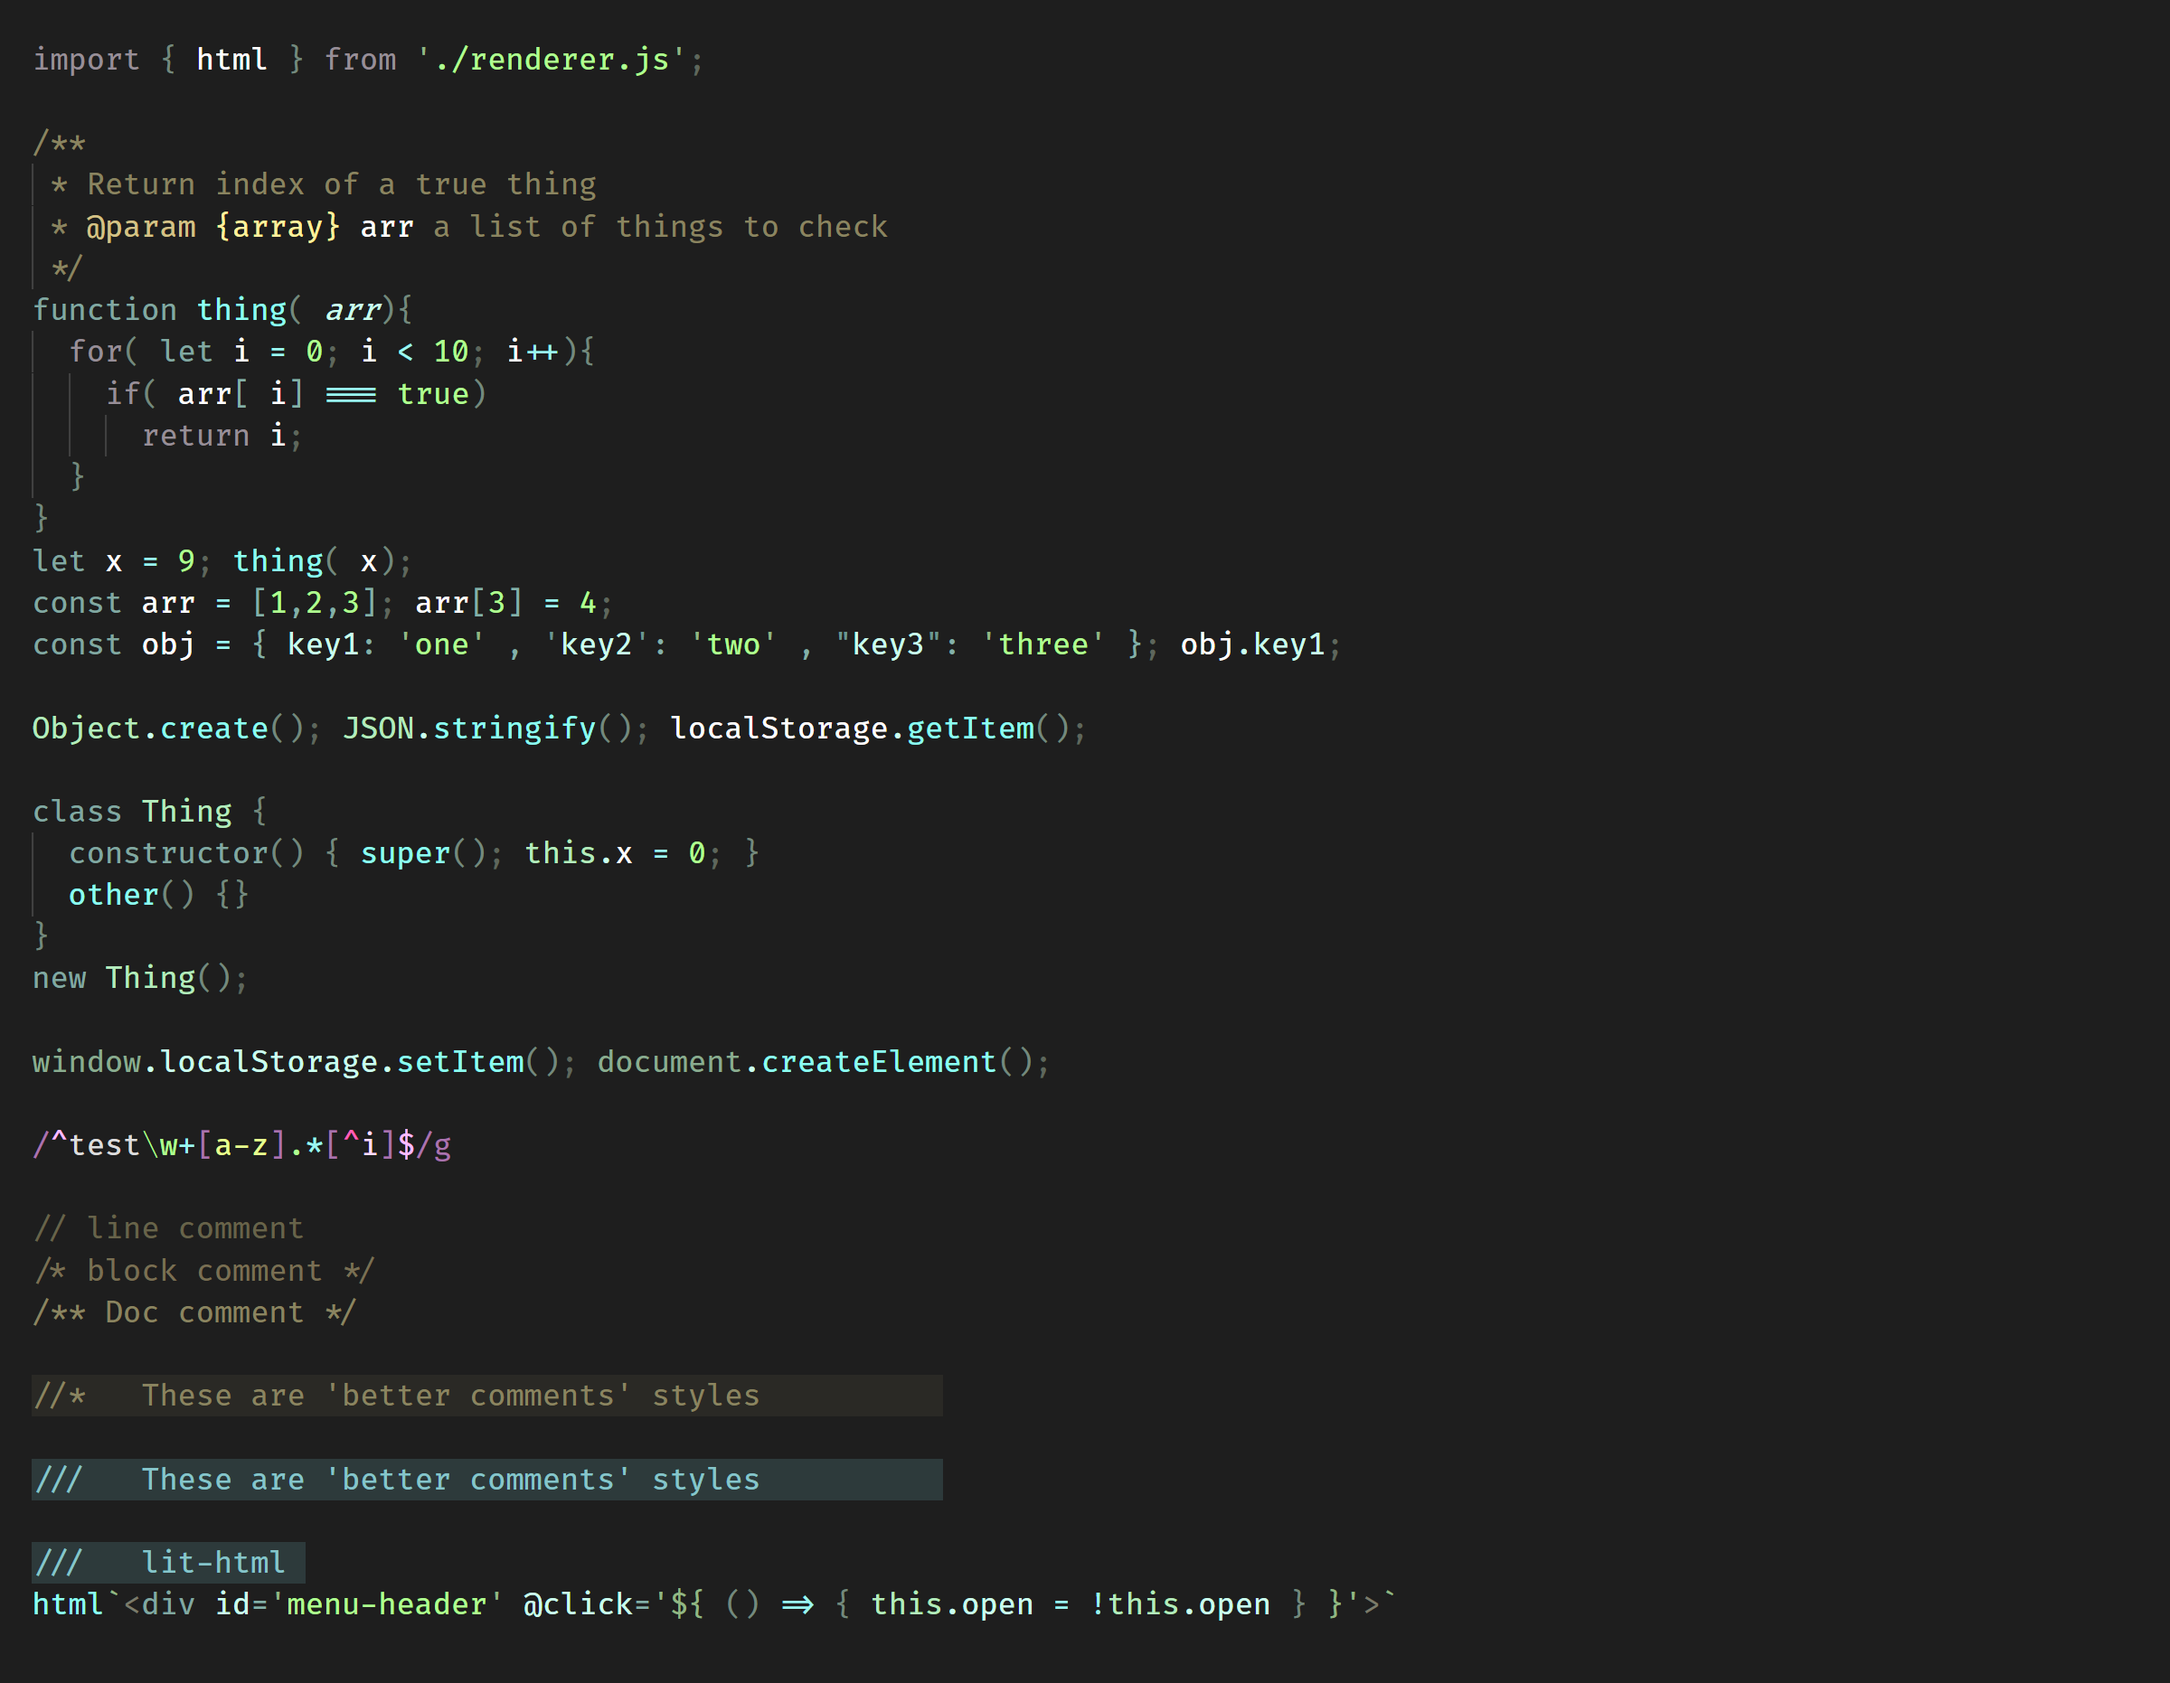
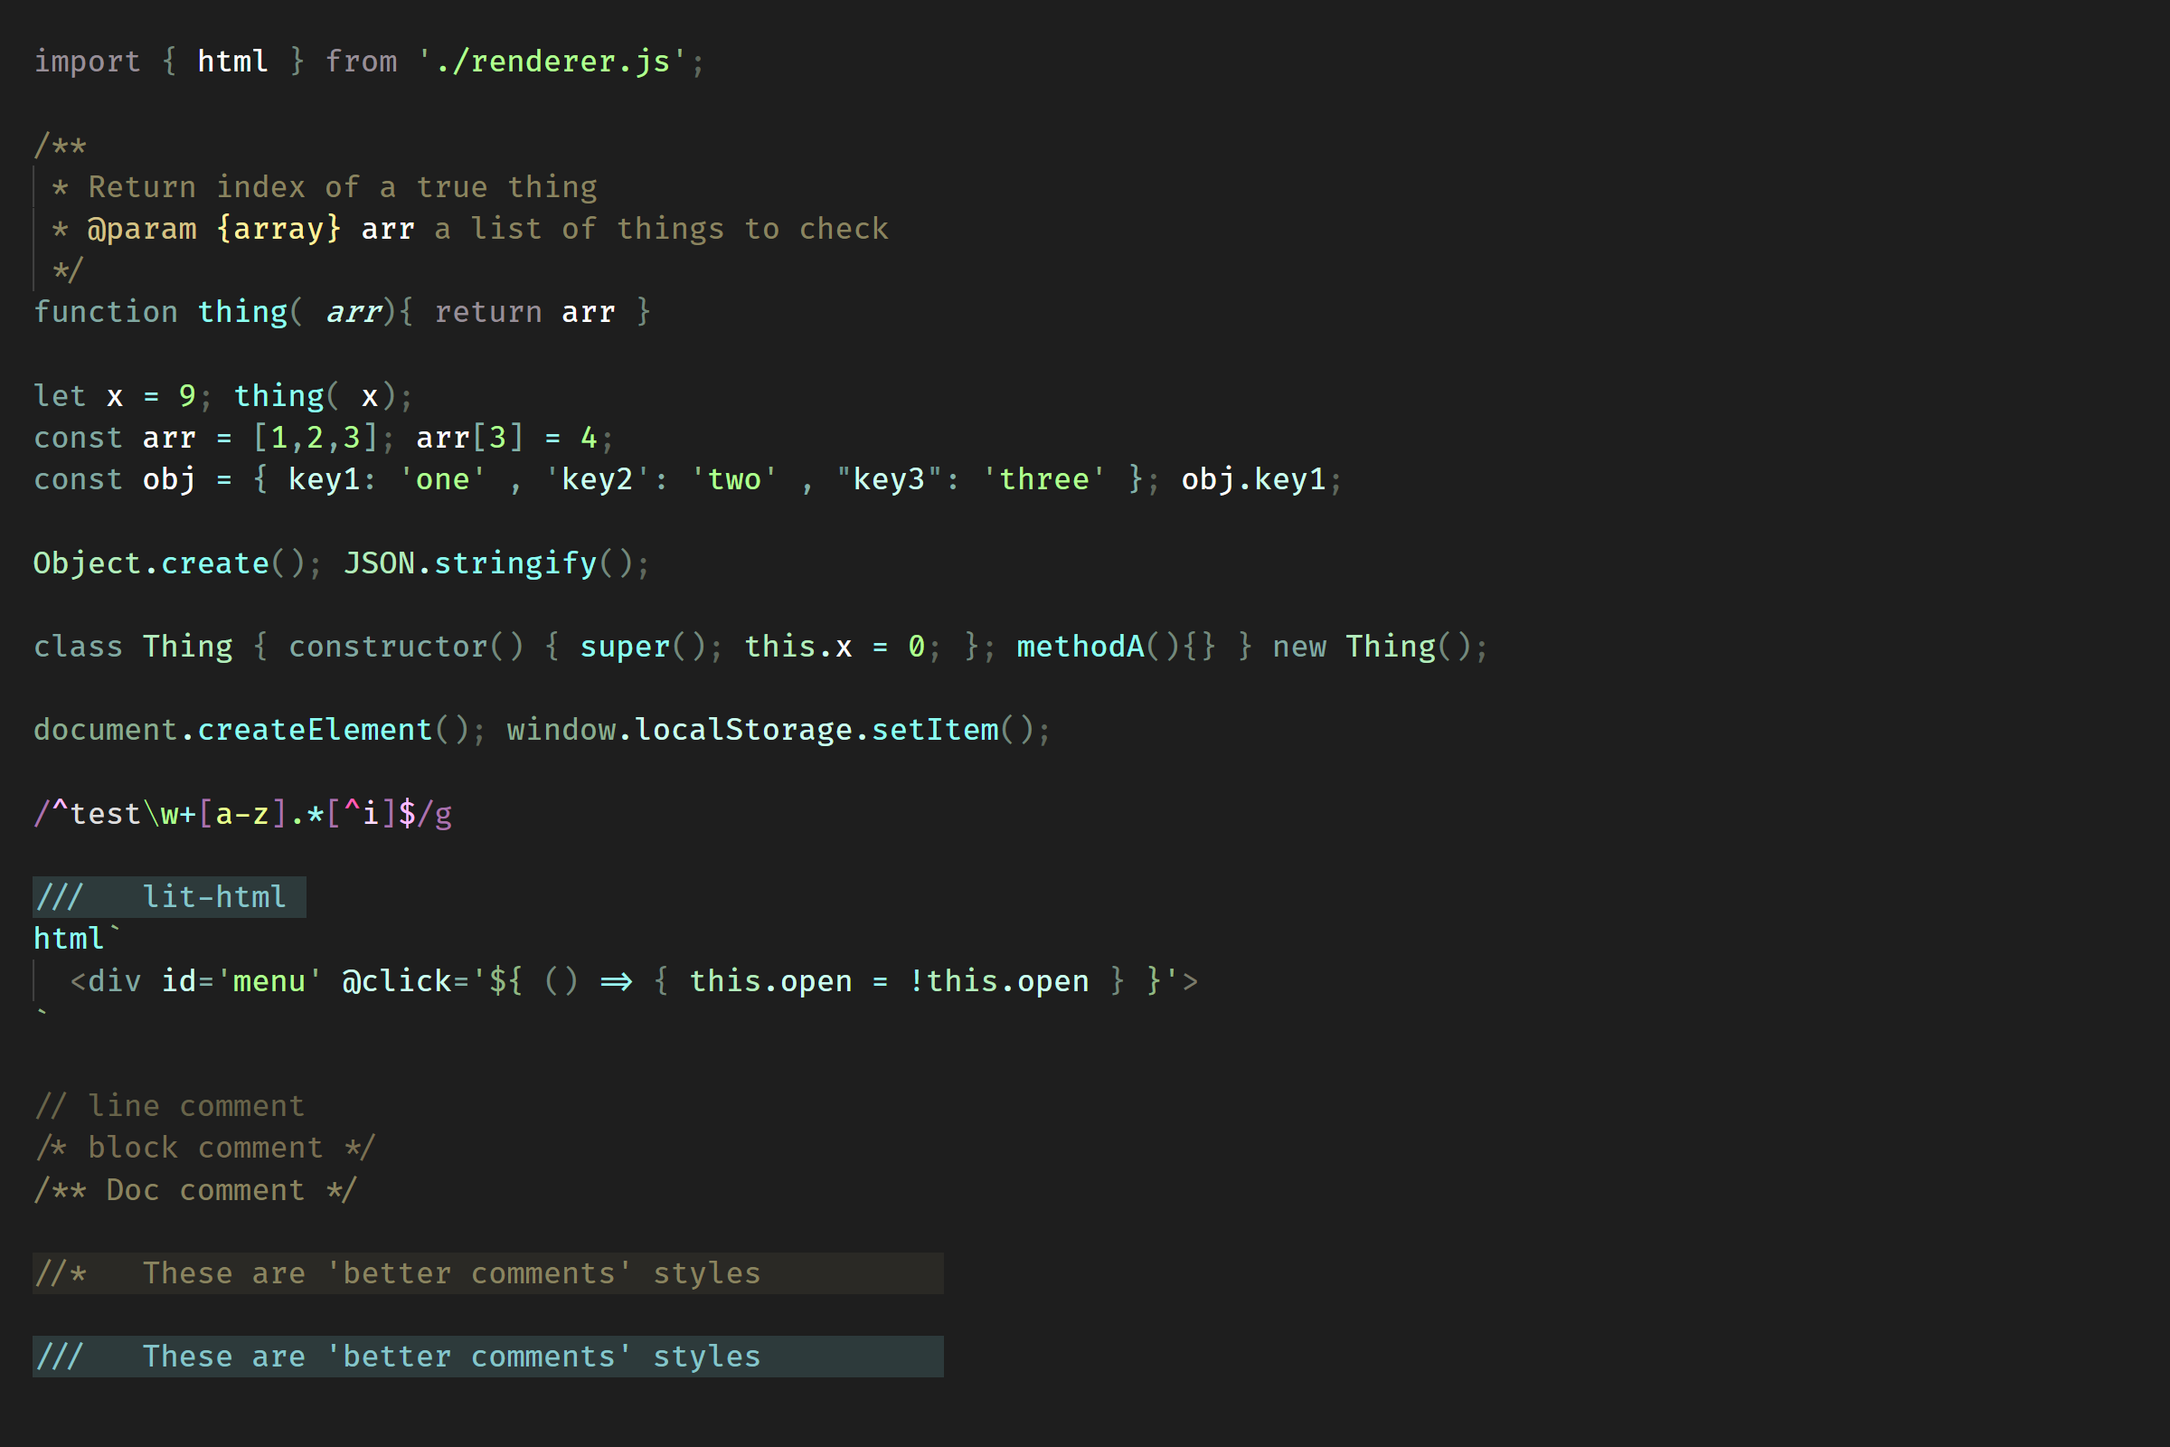
CSS classes id violet, @media yellow

diff --git a/syntax-demos/js.js b/syntax-demos/js.js
@@ -5,27 +5,24 @@ import { html } from './renderer.js';
  * Return index of a true thing
  * @param {array} arr a list of things to check
  */
-function thing( arr){
-	for( let i = 0; i < 10; i++){
-		if( arr[ i] === true) 
-			return i;
-	}
-}
+function thing( arr){ return arr }
+
 let x = 9; thing( x);
 const arr = [1,2,3]; arr[3] = 4;
 const obj = { key1: 'one' , 'key2': 'two' , "key3": 'three' }; obj.key1;
 
-Object.create(); JSON.stringify(); localStorage.getItem();
+Object.create(); JSON.stringify();
 
-class Thing { 
-	constructor() { super(); this.x = 0; } 
-	other() {} 
-}
-new Thing();
+class Thing { constructor() { super(); this.x = 0; }; methodA(){} } new Thing();
 
-window.localStorage.setItem(); document.createElement();
+document.createElement(); window.localStorage.setItem(); 
 
 /^test\w+[a-z].*[^i]$/g
+
+/// 	lit-html 
+html`
+	<div id='menu' @click='${ () => { this.open = !this.open } }'>
+`
 
 // line comment 
 /* block comment */
@@ -35,26 +32,6 @@ window.localStorage.setItem(); document.createElement();
 
 /// 	These are 'better comments' styles 					
 
-/// 	lit-html 
-html`<div id='menu-header' @click='${ () => { this.open = !this.open } }'>`
-
-
-
-
-import { html } from './renderer.js';
-
-/**
- * Get an answer to something
- * @param {any} anything question asked
- */
-function thing( p){ 
-	if( p){
-		for( let i=0; i<10; i++){
-
-		}
-	}
-	return p; 
-}
 
 
 

diff --git a/syntax-demos/css.css b/syntax-demos/css.css
@@ -1,0 +1,22 @@
+
+
+main#app > div[data-state='ready']::after {
+	content: 'hello';
+}
+
+@media screen and (min-aspect-ratio: 1/2) {
+	main {
+		color: red;
+	}
+}
+
+@keyframes sliding-appear {
+	0% {
+		transform: translateX(-60%) rotateY(-45deg);
+	}
+	100% {
+		transform: translateX(0) rotateY(0);
+	}
+}
+
+

diff --git a/README.md b/README.md
@@ -3,7 +3,7 @@
 
 ## VS Code theme built from scratch for web languages (JS/HTML/CSS)
 
-- minimal, cold color palette
+- dark theme with a minimal color palette (mostly cold colors)
 - contrasting comments (orange hue)
 - all values have the same vivid green color
 - faded colors for less important stuff

diff --git a/CHANGELOG.md b/CHANGELOG.md
@@ -1,5 +1,9 @@
 # Change Log
 
+## [1.3.0] (2018-09-15)
+	CSS: class and id for CSS are now violet to distinguish from green values
+	CSS: @media, @keyframes are now better
+
 ## [1.2.0]
 	revert to dark purple for control flow
 	dark green for top-level vars (window and document)
